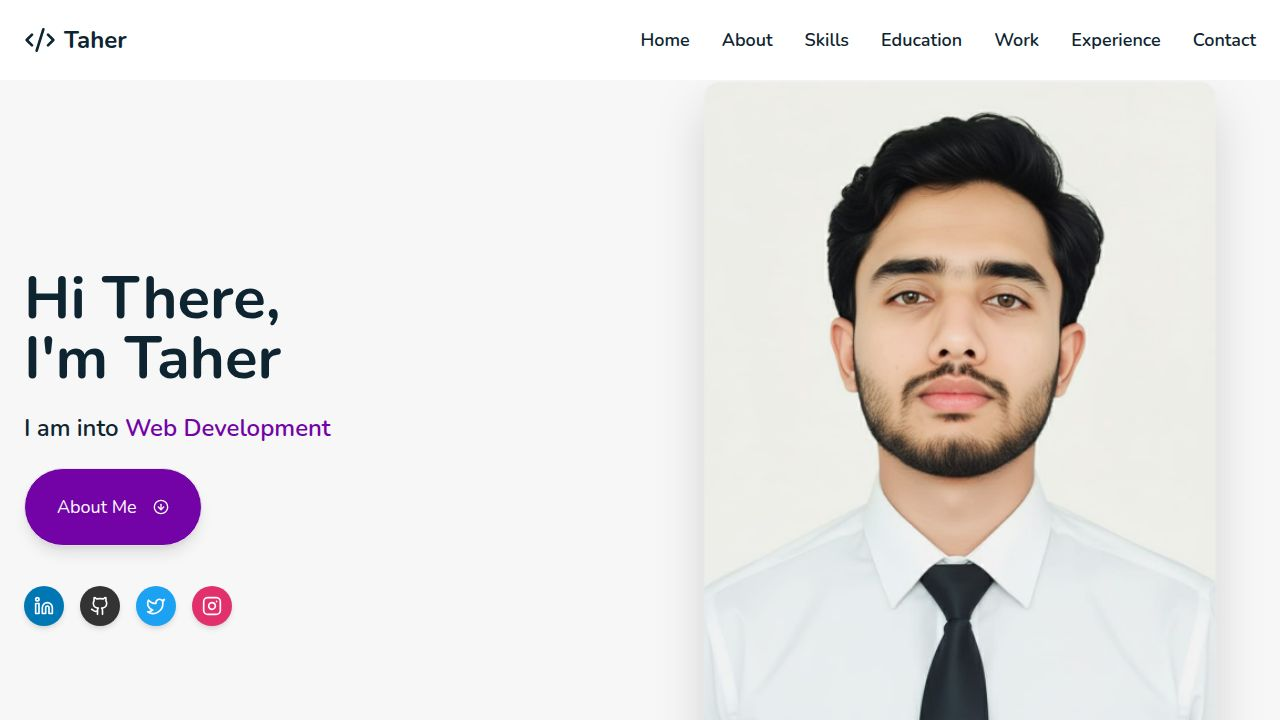
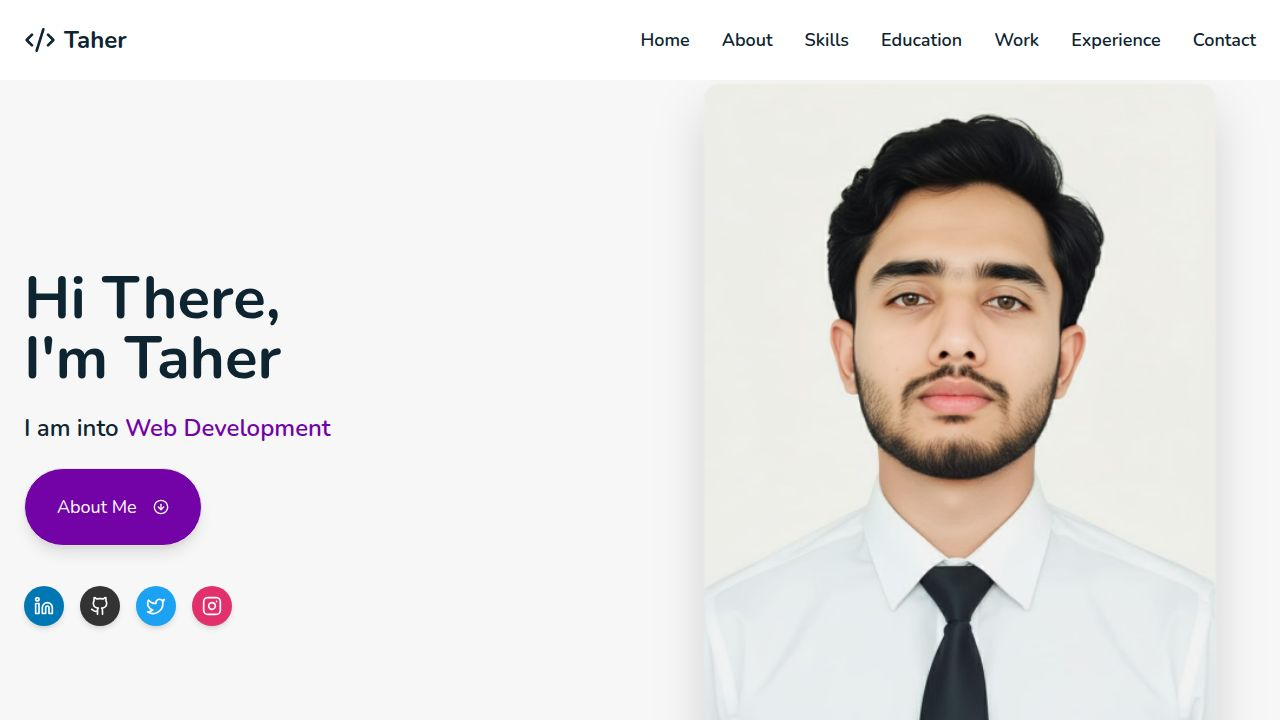
Add new e-commerce project and personal photo to portfolio
Adds the 'Commerza' e-commerce project to the portfolio and updates personal information.

Replit-Commit-Author: Agent
Replit-Commit-Session-Id: c974667f-2954-4eaa-92c5-48364f255c1f
Replit-Commit-Checkpoint-Type: full_checkpoint
Replit-Commit-Event-Id: 98bcb9d9-7228-4e01-a068-8b1aa748eb94
Replit-Commit-Screenshot-Url: https://storage.googleapis.com/screenshot-production-us-central1/49176b13-5ec8-45e1-b84e-daca764db0b3/c974667f-2954-4eaa-92c5-48364f255c1f/F2shj29
Replit-Helium-Checkpoint-Created: true

diff --git a/client/src/data/portfolio.ts b/client/src/data/portfolio.ts
@@ -18,6 +18,16 @@ export interface Skill {
 
 export const projects: Project[] = [
   {
+    "name": "Commerza",
+    "desc": "A premium e-commerce experience for luxury timepieces and statement pieces.",
+    "image": "commerza",
+    "category": "basicweb",
+    "links": {
+      "view": "https://commerza-pi.vercel.app",
+      "code": "#"
+    }
+  },
+  {
     "name": "Password Generator",
     "desc": "A secure and customizable password generator tool built with modern web technologies.",
     "image": "password-gen",
